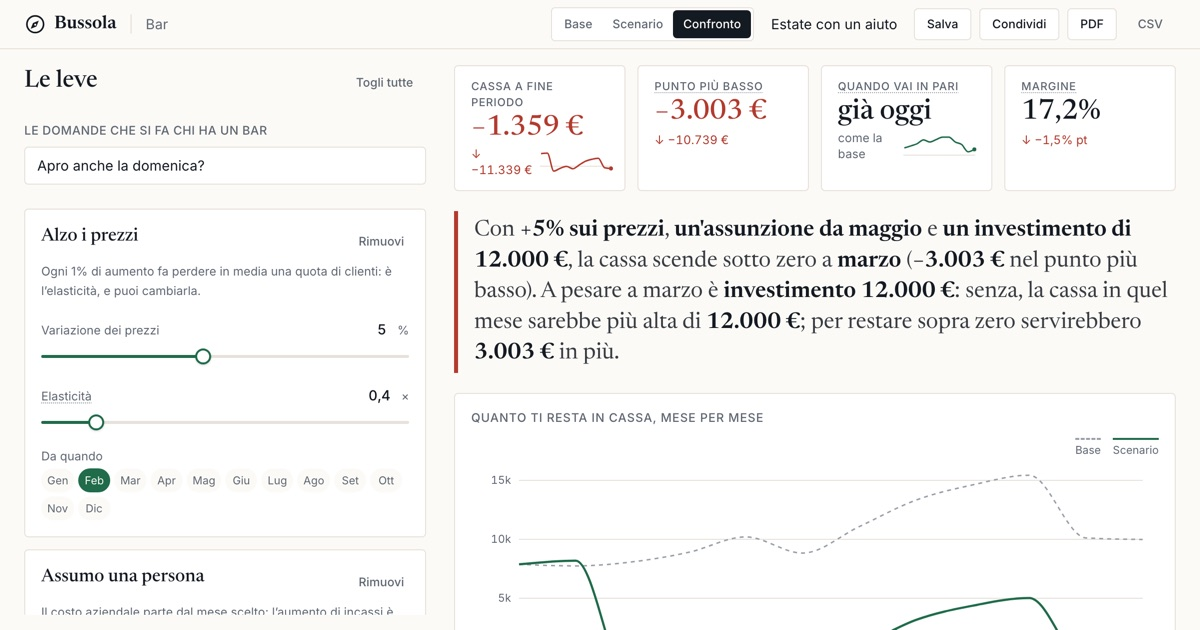
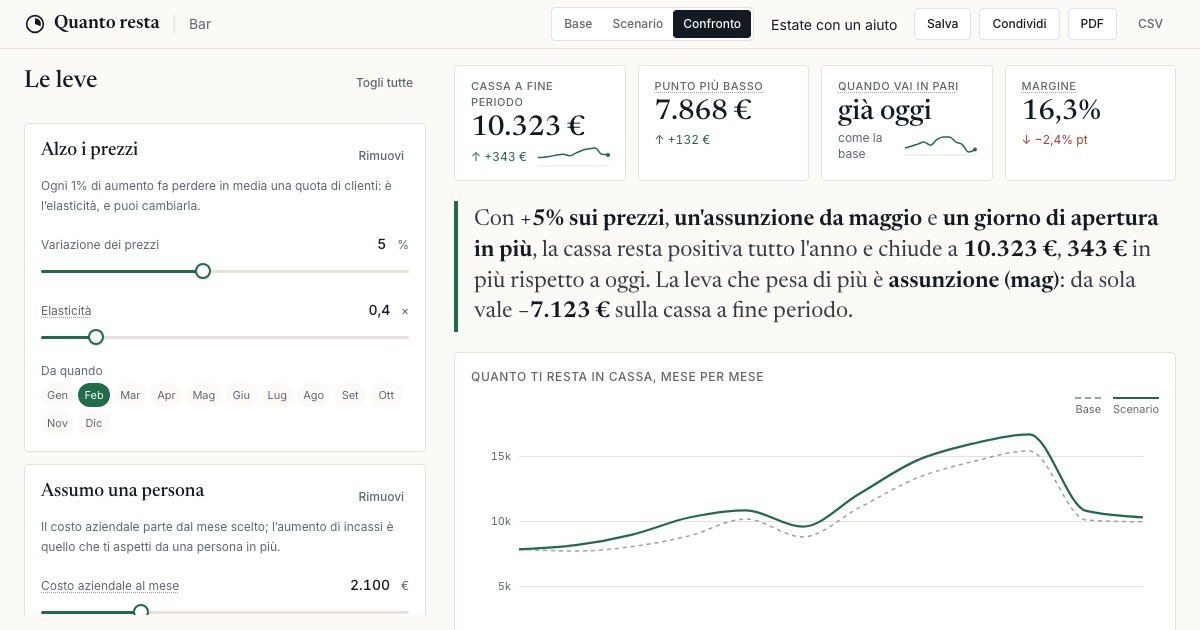
Rinomina il prodotto in «Quanto resta»
Nuovo nome, logo (la fetta che resta), URL, chiavi di localStorage,
nomi dei file esportati e immagine Open Graph rigenerata.

diff --git a/src/config/brand.ts b/src/config/brand.ts
@@ -4,11 +4,11 @@
  * tramite variabili CSS con lo stesso nome.
  */
 export const brand = {
-  name: 'Bussola',
+  name: 'Quanto resta',
   tagline: 'Cosa succede se',
   description:
     'Il simulatore per chi ha una piccola attività: muovi una leva e vedi cosa succede alla cassa nei prossimi 12 mesi.',
-  url: 'https://bussola.vercel.app',
+  url: 'https://quanto-resta.vercel.app',
   colors: {
     paper: '#FBFAF6',
     surface: '#FFFFFF',
@@ -22,9 +22,9 @@ export const brand = {
   },
   disclaimer:
     'Simulazione indicativa basata su ipotesi inserite dall’utente. Non costituisce consulenza fiscale o finanziaria.',
-  /** Logo: una bussola stilizzata a tratto, inline così finisce anche nel PDF e nell'OG. */
+  /** Logo: un cerchio con la fetta che resta, inline così finisce anche nel PDF e nell'OG. */
   logoPath:
-    'M12 2a10 10 0 1 0 0 20 10 10 0 0 0 0-20Zm0 1.8a8.2 8.2 0 1 1 0 16.4 8.2 8.2 0 0 1 0-16.4Zm3.9 4.3-2.6 6.3-6.3 2.6 2.6-6.3 6.3-2.6Zm-3.9 3.3a1.1 1.1 0 1 0 0 2.2 1.1 1.1 0 0 0 0-2.2Z',
+    'M12 2a10 10 0 1 0 0 20 10 10 0 0 0 0-20Zm0 1.8a8.2 8.2 0 1 1 0 16.4 8.2 8.2 0 0 1 0-16.4ZM12 12V5.6a6.4 6.4 0 0 1 5.9 8.9Z',
 } as const;
 
 export type Brand = typeof brand;

diff --git a/src/components/dashboard/ScenarioActions.tsx b/src/components/dashboard/ScenarioActions.tsx
@@ -71,7 +71,7 @@ export function ScenarioActions({ extra }: { extra?: React.ReactNode }) {
     const csv = monthsToCsv(project(scenario.assumptions, scenario.levers).months);
     downloadBlob(
       new Blob([csv], { type: 'text/csv;charset=utf-8' }),
-      `bussola-${fileName(name)}.csv`,
+      `quanto-resta-${fileName(name)}.csv`,
     );
   };
 
@@ -87,7 +87,7 @@ export function ScenarioActions({ extra }: { extra?: React.ReactNode }) {
         body: JSON.stringify({ s, image }),
       });
       if (!res.ok) throw new Error(await res.text());
-      downloadBlob(await res.blob(), `bussola-${fileName(name)}.pdf`);
+      downloadBlob(await res.blob(), `quanto-resta-${fileName(name)}.pdf`);
       setToast('PDF pronto');
     } catch {
       setToast('PDF non generato: riprova');

diff --git a/src/app/api/report/pdf/route.tsx b/src/app/api/report/pdf/route.tsx
@@ -59,7 +59,7 @@ export async function POST(request: Request): Promise<Response> {
   return new Response(new Uint8Array(buffer), {
     headers: {
       'Content-Type': 'application/pdf',
-      'Content-Disposition': `attachment; filename="bussola-${name}.pdf"`,
+      'Content-Disposition': `attachment; filename="quanto-resta-${name}.pdf"`,
       'Cache-Control': 'no-store',
     },
   });

diff --git a/src/lib/persistence.ts b/src/lib/persistence.ts
@@ -1,9 +1,9 @@
 import type { SavedScenario } from '@/store/scenario';
 
 const KEYS = {
-  onboarded: 'bussola:onboarded',
-  current: 'bussola:current',
-  saved: 'bussola:saved',
+  onboarded: 'quanto-resta:onboarded',
+  current: 'quanto-resta:current',
+  saved: 'quanto-resta:saved',
 } as const;
 
 function read(key: string): string | null {

diff --git a/README.md b/README.md
@@ -1,6 +1,6 @@
-# Bussola — «cosa succede se» per piccole attività
+# Quanto resta — «cosa succede se» per piccole attività
 
-Bussola è un simulatore di scenari per chi ha un bar, un ristorante, un negozio, una bottega artigiana, uno studio o un e-commerce. Descrivi l'attività con pochi numeri, muovi delle leve (alzo i prezzi, assumo una persona, apro la domenica, compro un macchinario…) e vedi in tempo reale cosa succede alla cassa, al margine e al punto di pareggio nei prossimi 12 o 24 mesi. Poi salvi, condividi con un link o scarichi il riepilogo in PDF.
+Quanto resta è un simulatore di scenari per chi ha un bar, un ristorante, un negozio, una bottega artigiana, uno studio o un e-commerce. Descrivi l'attività con pochi numeri, muovi delle leve (alzo i prezzi, assumo una persona, apro la domenica, compro un macchinario…) e vedi in tempo reale cosa succede alla cassa, al margine e al punto di pareggio nei prossimi 12 o 24 mesi. Poi salvi, condividi con un link o scarichi il riepilogo in PDF.
 
 Non serve un database: lo scenario vive nell'URL (`?s=…`) e gli scenari salvati in `localStorage`.
 

diff --git a/PROMPT.md b/PROMPT.md
@@ -12,7 +12,7 @@ L'utente è il **titolare di una piccola attività** (bar, ristorante, negozio, 
 
 In 60 secondi deve poter: scegliere il tipo di attività → confermare o correggere i numeri di partenza (precompilati) → muovere una o più leve → capire, con un grafico e due frasi in italiano, se la scelta lo porta in salvo o nei guai, e quando. Poi salvare o condividere lo scenario con un link e scaricare un riepilogo in PDF.
 
-Il prodotto demo si chiama **"Bussola"**. Il branding deve essere sostituibile cambiando un solo file.
+Il prodotto demo si chiama **"Quanto resta"**. Il branding deve essere sostituibile cambiando un solo file.
 
 ## 2. Stack (vincolante)
 
